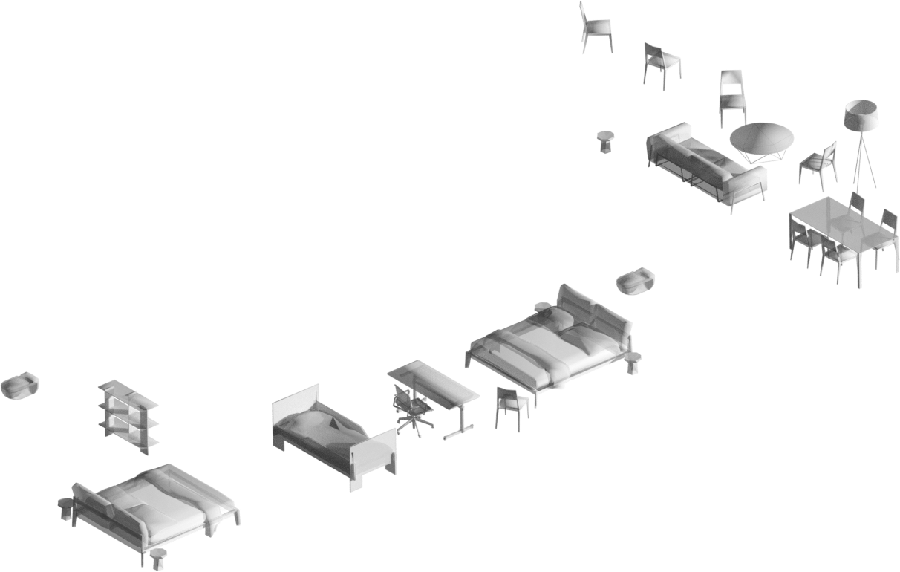
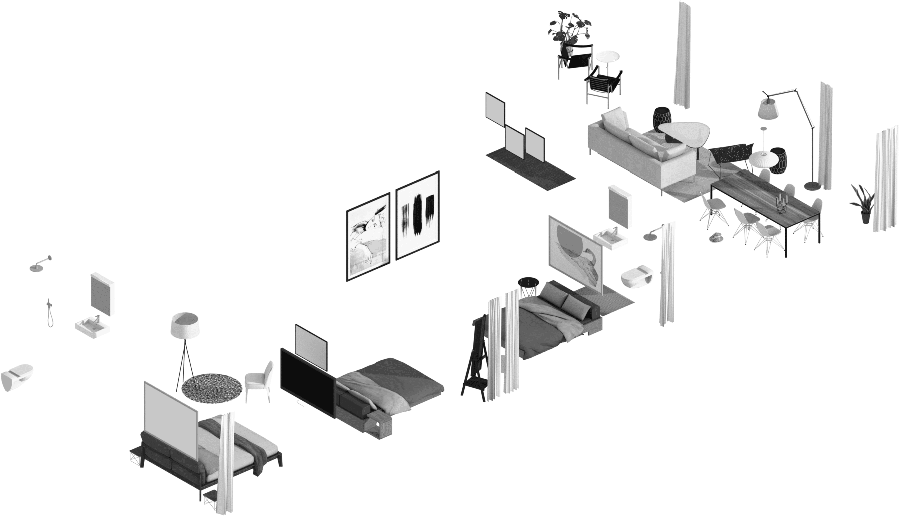
Updated title pic

diff --git a/src/js/main.js b/src/js/main.js
@@ -23,8 +23,16 @@ $(function(){
     // title pic animation
     var titleRowHeight = $titleRow.height()
     // at which scroll position in px to start and stop the animation:
-    var animStart = 50
-    var animEnd = titleRowHeight*0.7
+    var titleRowHeight, animStart, animEnd
+    if (titleRowHeight < 450) {
+      // desktop
+      animStart = 40
+      animEnd = 150
+    } else {
+      // mobile
+      animStart = 70
+      animEnd = 500
+    }
     // calculate target positon
     target = Math.min(1, Math.max(0, scrollTop-animStart) / animEnd)
 
@@ -47,16 +55,16 @@ $(function(){
       opacity: 1-current
     })
     $titlePicFurniture.css({
-      '-webkit-transform': 'translateY('+(-0 + current * -55)+'%)',
-      transform: 'translateY('+(-0 + current * -55)+'%)'
+      '-webkit-transform': 'translateY('+(-8 + current * -60)+'%)',
+      transform: 'translateY('+(-8 + current * -60)+'%)'
     })
     $titlePicArch.css({
-      '-webkit-transform': 'translateY('+(30 + current * -8)+'%)',
-      transform: 'translateY('+(30 + current * -8)+'%)'
+      '-webkit-transform': 'translateY('+(21 + current * -8)+'%)',
+      transform: 'translateY('+(21 + current * -8)+'%)'
     })
     $titlePicPlan.css({
-      '-webkit-transform': 'translateY('+(90 + current * 30)+'%)',
-      transform: 'translateY('+(90 + current * 30)+'%)'
+      '-webkit-transform': 'translateY('+(54 + current * 30)+'%)',
+      transform: 'translateY('+(54 + current * 30)+'%)'
     })
   })
 

diff --git a/src/css/index-page.less b/src/css/index-page.less
@@ -69,6 +69,7 @@
             margin: 0 6px 6px 0;
             text-shadow: 2px 2px 0 0 rgba(0, 0, 0, 0);
             border-bottom: 2px solid @pltfrm-blue-50;
+            box-shadow: 0px 0px 4px 2px white;
         }
         a:hover {
             color: white;
@@ -115,10 +116,14 @@
                     top: 0;
                 }
                 #title-pic-furniture {
+                    width: 90%;
+                    margin-left: 9%;
                 }
                 #title-pic-arch {
                 }
                 #title-pic-plan {
+                    width: 123%;
+                    margin-left: -15%;
                 }
             }
         }
